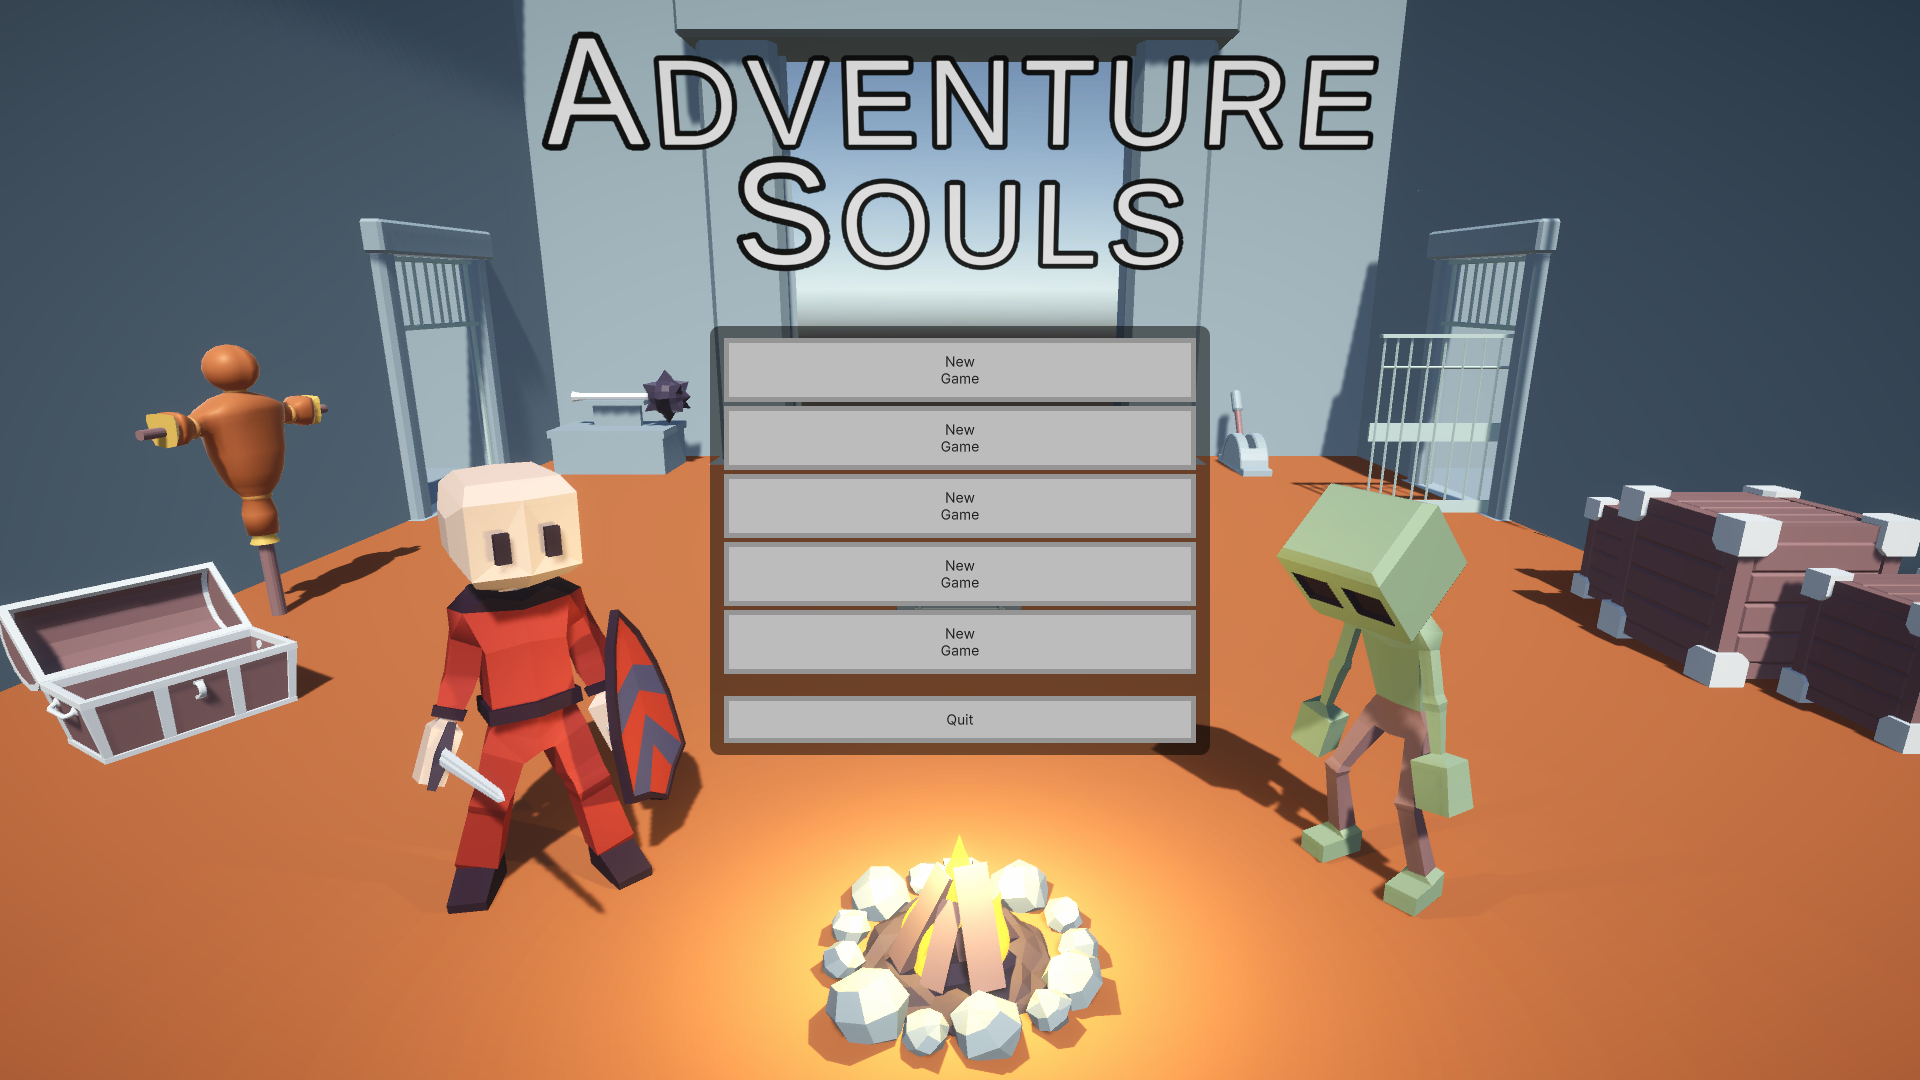
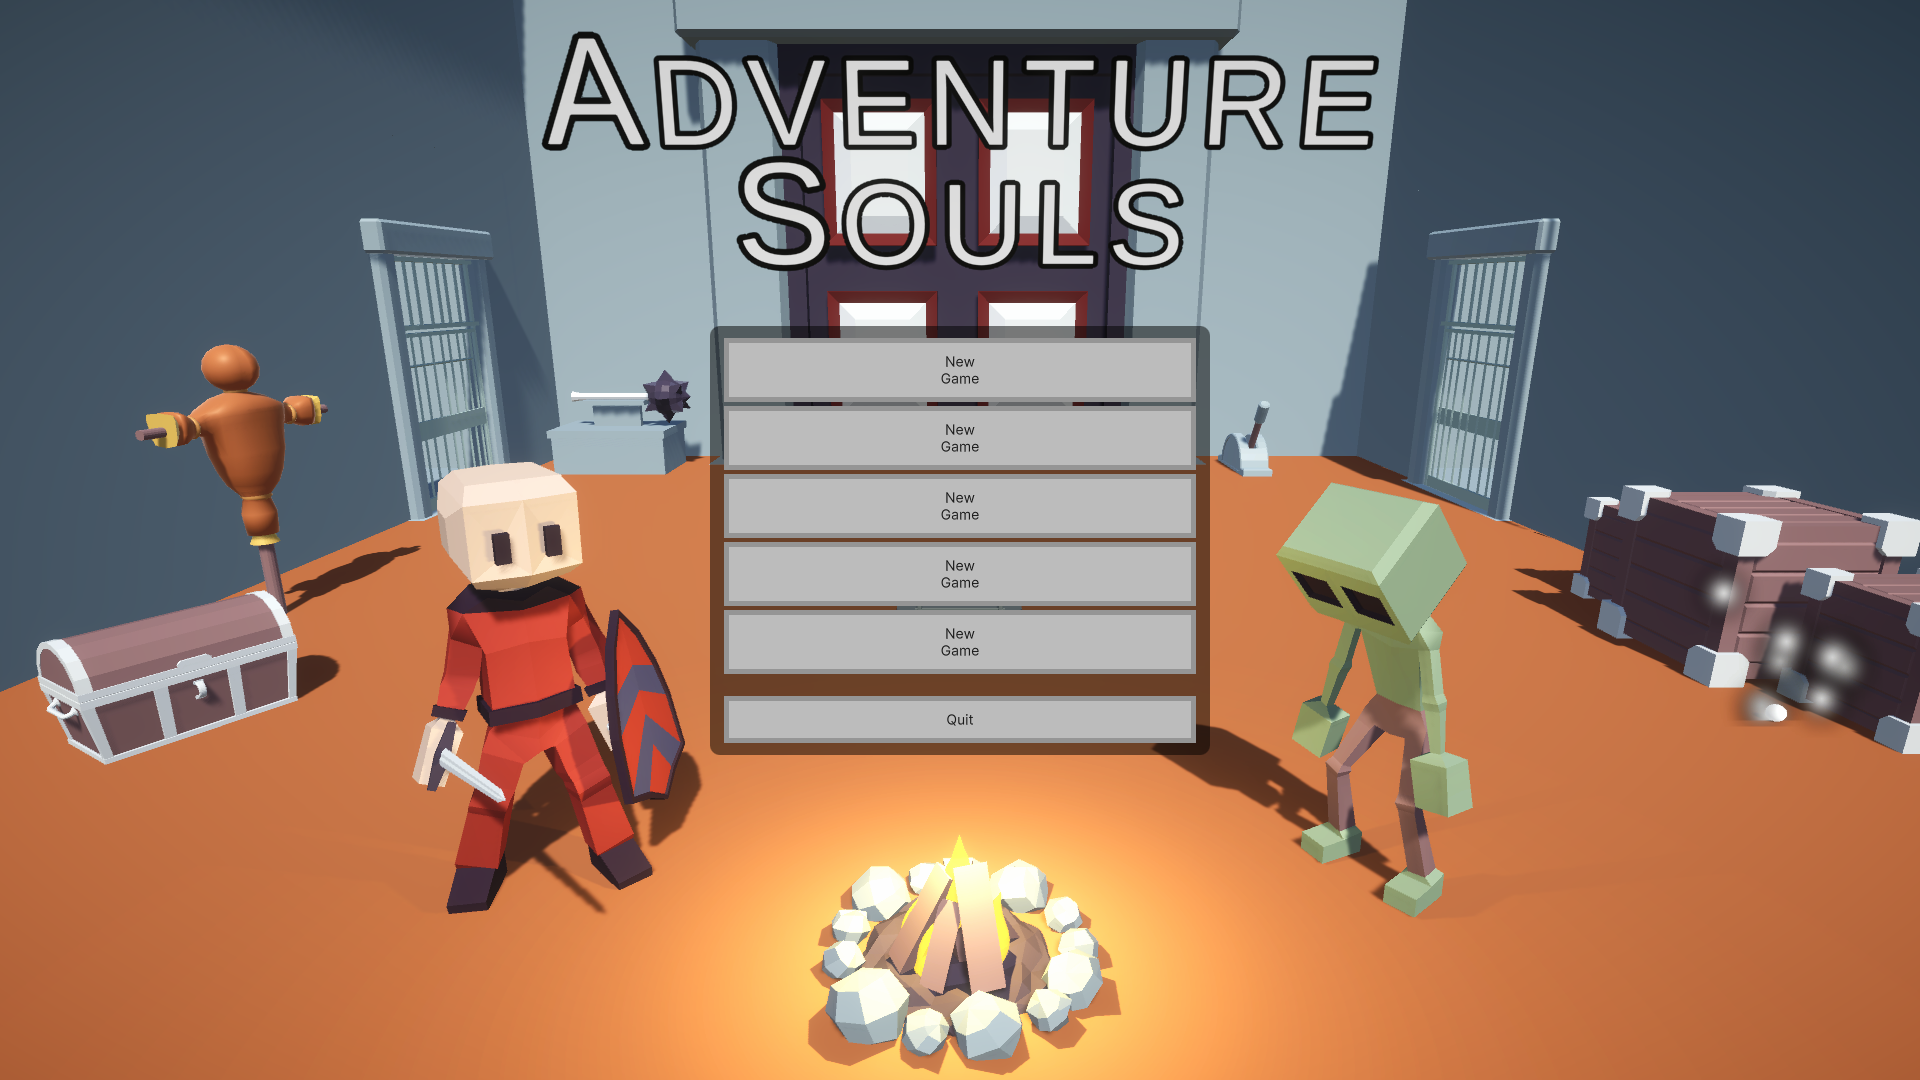
fixes

diff --git a/index.md b/index.md
@@ -26,14 +26,14 @@ values that may be used up by an action or damaged somehow
 responsible for moving the character around the world
 - Persistence  
 saves the state of characters, environment, save games, settings, ...
-- Damage (Physical, ...)
+- Damage (Physical, ...)  
 damage events created from triggers or actions are passed from senders to receivers  
 
 <p align="center">
   <img src="/assets/images/Title1080.png" />
 </p>
 
-AdventureSouls demonstrates the systems of AdventureCore in a simple souls-like ARPG. Some of its feature highlights are:  
+AdventureSouls demonstrates the systems of AdventureCore in a simple souls-like. Some of the feature highlights are:  
 
 - Player Character
   - weapons with unique actions per item and equipped slot(left, right) 
@@ -47,7 +47,7 @@ AdventureSouls demonstrates the systems of AdventureCore in a simple souls-like 
   - death drops XP and resets player to bonfire
 - Objects
   - doors, chests, levers
-  - destructible chests and dummies
+  - destructible crates and dummies
   - traps that shoot spikes
 
 <iframe width="560" height="315" src="https://www.youtube.com/embed/KigI2D7rjyc" title="AdventureSouls Demo" frameborder="0" allow="accelerometer; autoplay; clipboard-write; encrypted-media; gyroscope; picture-in-picture" allowfullscreen></iframe>  
